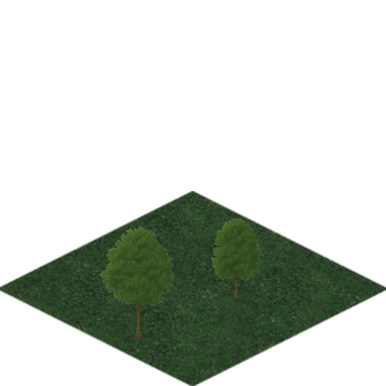
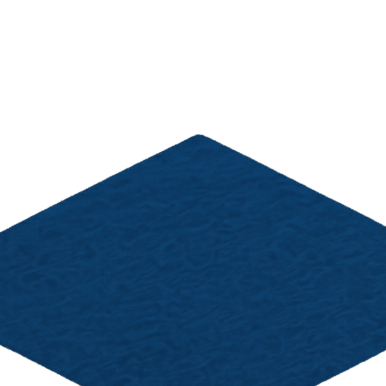
29 July 2025

diff --git a/src/theLand.js b/src/theLand.js
@@ -3,6 +3,9 @@ import { toast, ToastContainer } from 'react-toastify';
 import Phaser from 'phaser';
 import grassXImage from './assets/grassX.png';
 import foodXImage from './assets/foodX.png';
+import woodXImage from './assets/woodX.png';
+import stoneXImage from './assets/stoneX.png';
+import ironXImage from './assets/ironX.png';
 import eldersImage from './assets/elders.png';
 import armoryImage from './assets/buildings/armory.png';
 import blacksmithImage from './assets/buildings/blacksmith.png';
@@ -778,6 +781,7 @@ const calculateResources = useCallback((turns) => {
             break;
     }
 
+
     setCalculatedResources({ food, wood, stone, iron });
 }, [tileData, tileCoords.bonusType, buildingCounts]);
 
@@ -1111,6 +1115,9 @@ const fetchAllBuildings = async (mainX, mainY) => {
             this.load.audio('backgroundMusic2', backgroundMusicFile);
             this.load.image('grassX', grassXImage);
             this.load.image('foodX', foodXImage);
+            this.load.image('woodX', woodXImage);
+            this.load.image('stoneX', stoneXImage);
+            this.load.image('ironX', ironXImage);
             this.load.image('elders', eldersImage);
             this.load.image('armory', armoryImage);
             this.load.image('blacksmith', blacksmithImage);
@@ -1185,10 +1192,30 @@ musicRef2.current = this.sound.add('backgroundMusic2', {
             }
 
 
+            let landX = 'grassX';
+
+
+            switch (tileCoords.bonusType) {
+        case "Food":
+            landX = 'foodX';
+            break;
+        case "Wood":
+            landX = 'woodX';
+            break;
+        case "Stone":
+            landX = 'stoneX';
+            break;
+        case "Iron":
+            landX = 'ironX';
+            break;
+        default:
+            break;
+    }
+
  for (let y = -mapSize * 4; y < mapSize * 8; y++) {
                 for (let x = -mapSize * 4; x < mapSize * 8; x++) {
                     const { worldX, worldY } = tileToWorldPosition(x, y);
-            this.add.image(worldX, worldY, 'foodX').setDepth(worldY - 1000);
+            this.add.image(worldX, worldY, landX).setDepth(worldY - 1000);
                 }}
 
 
